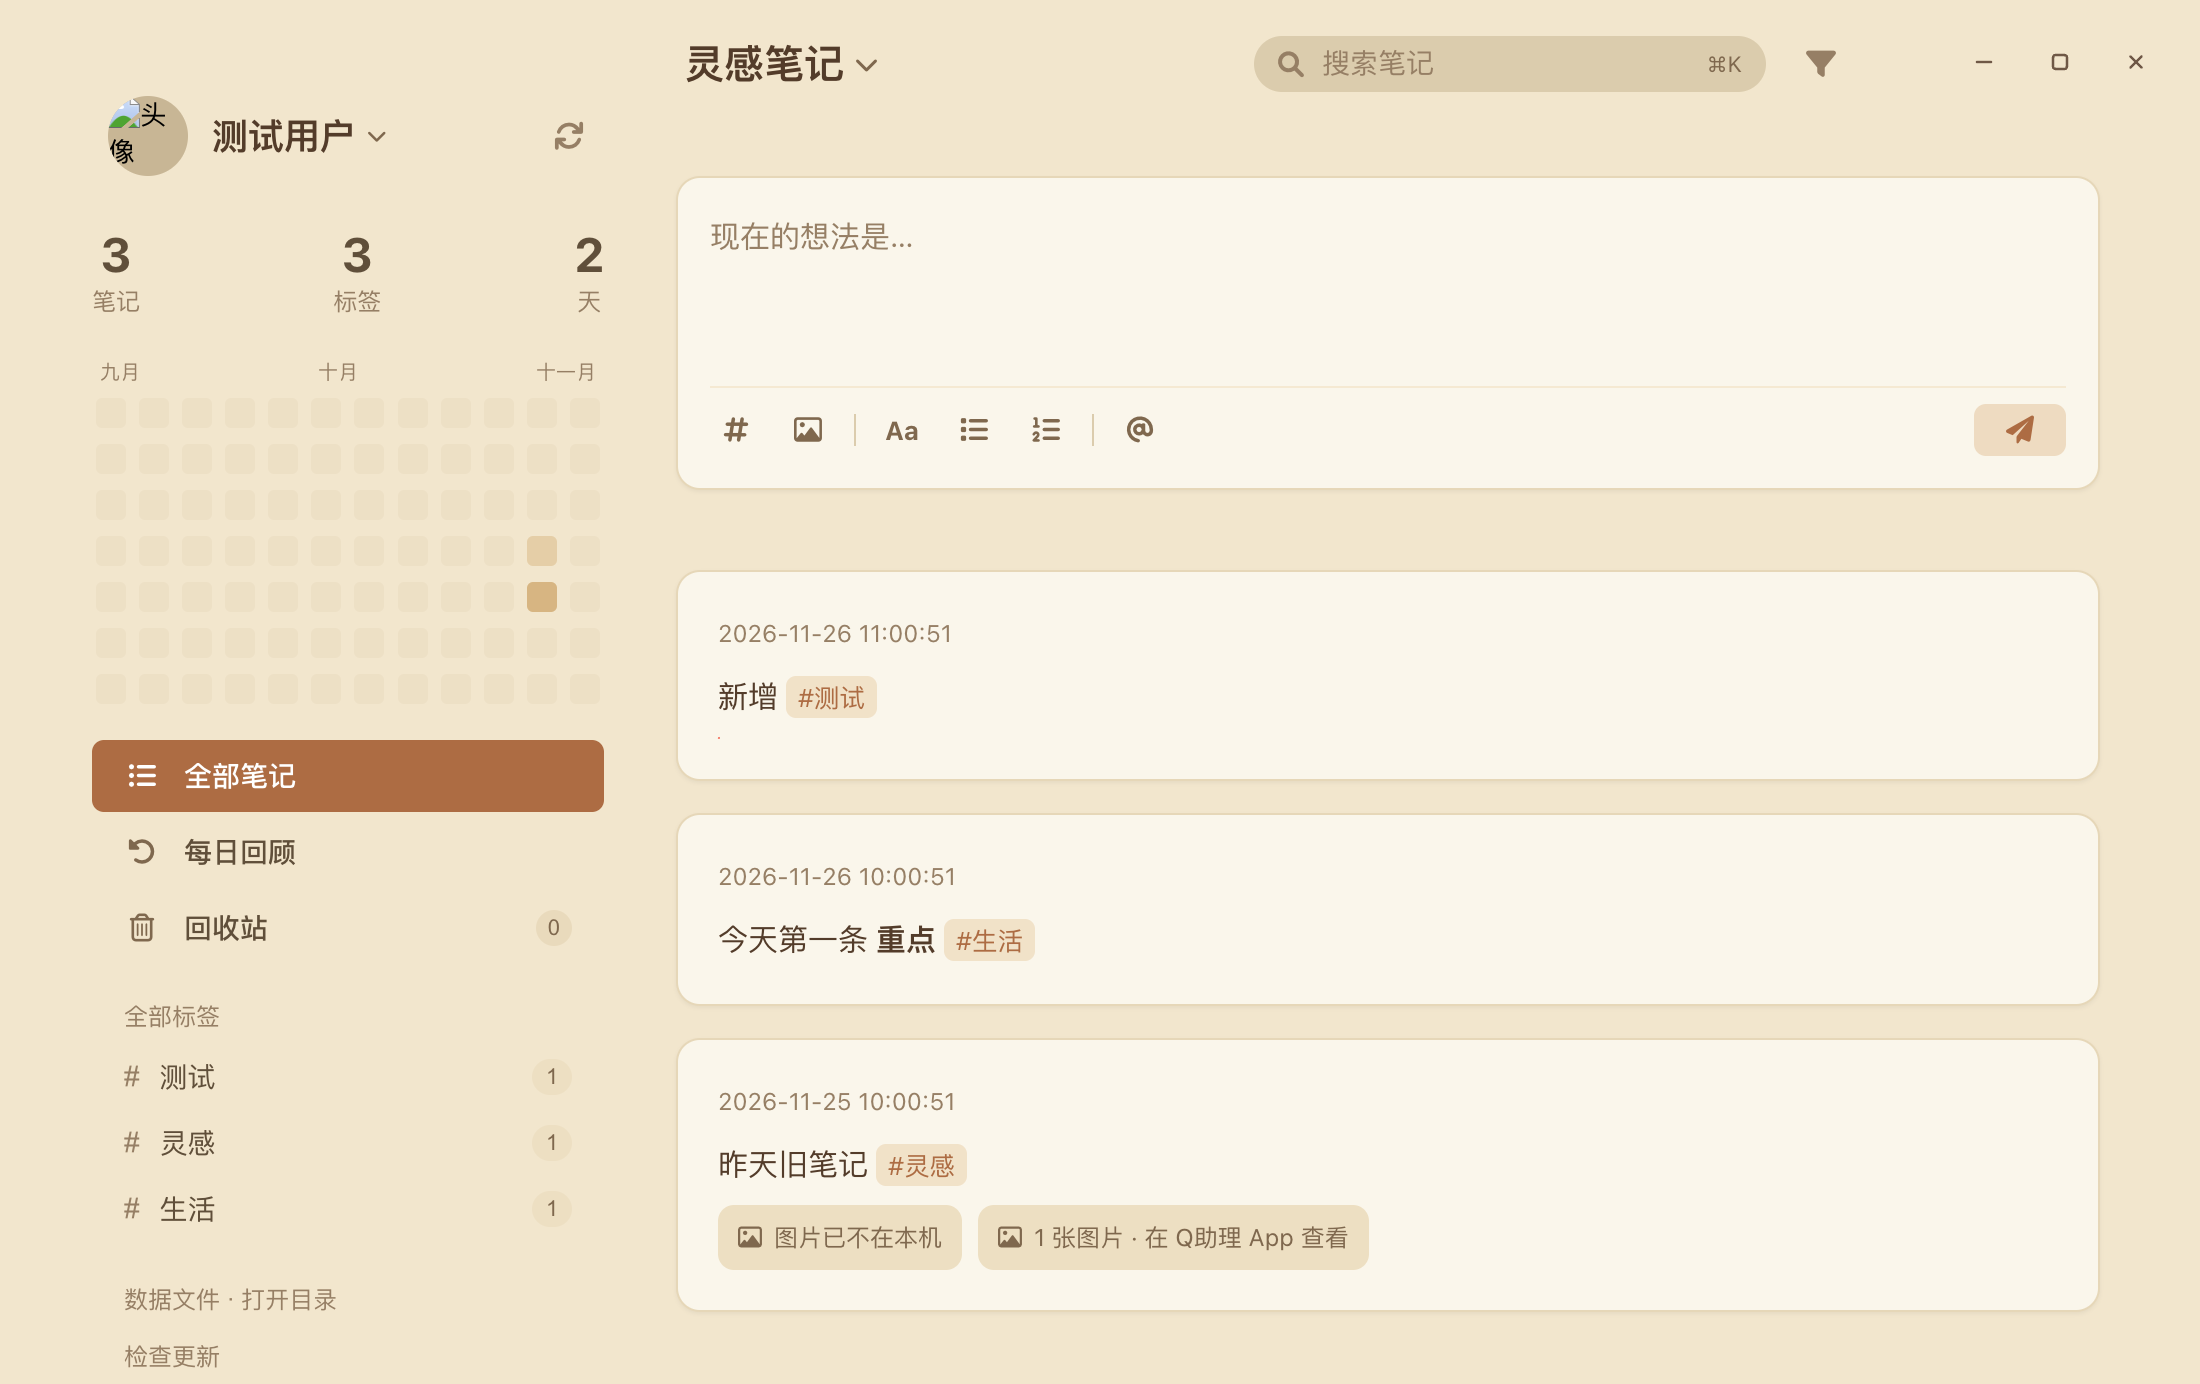
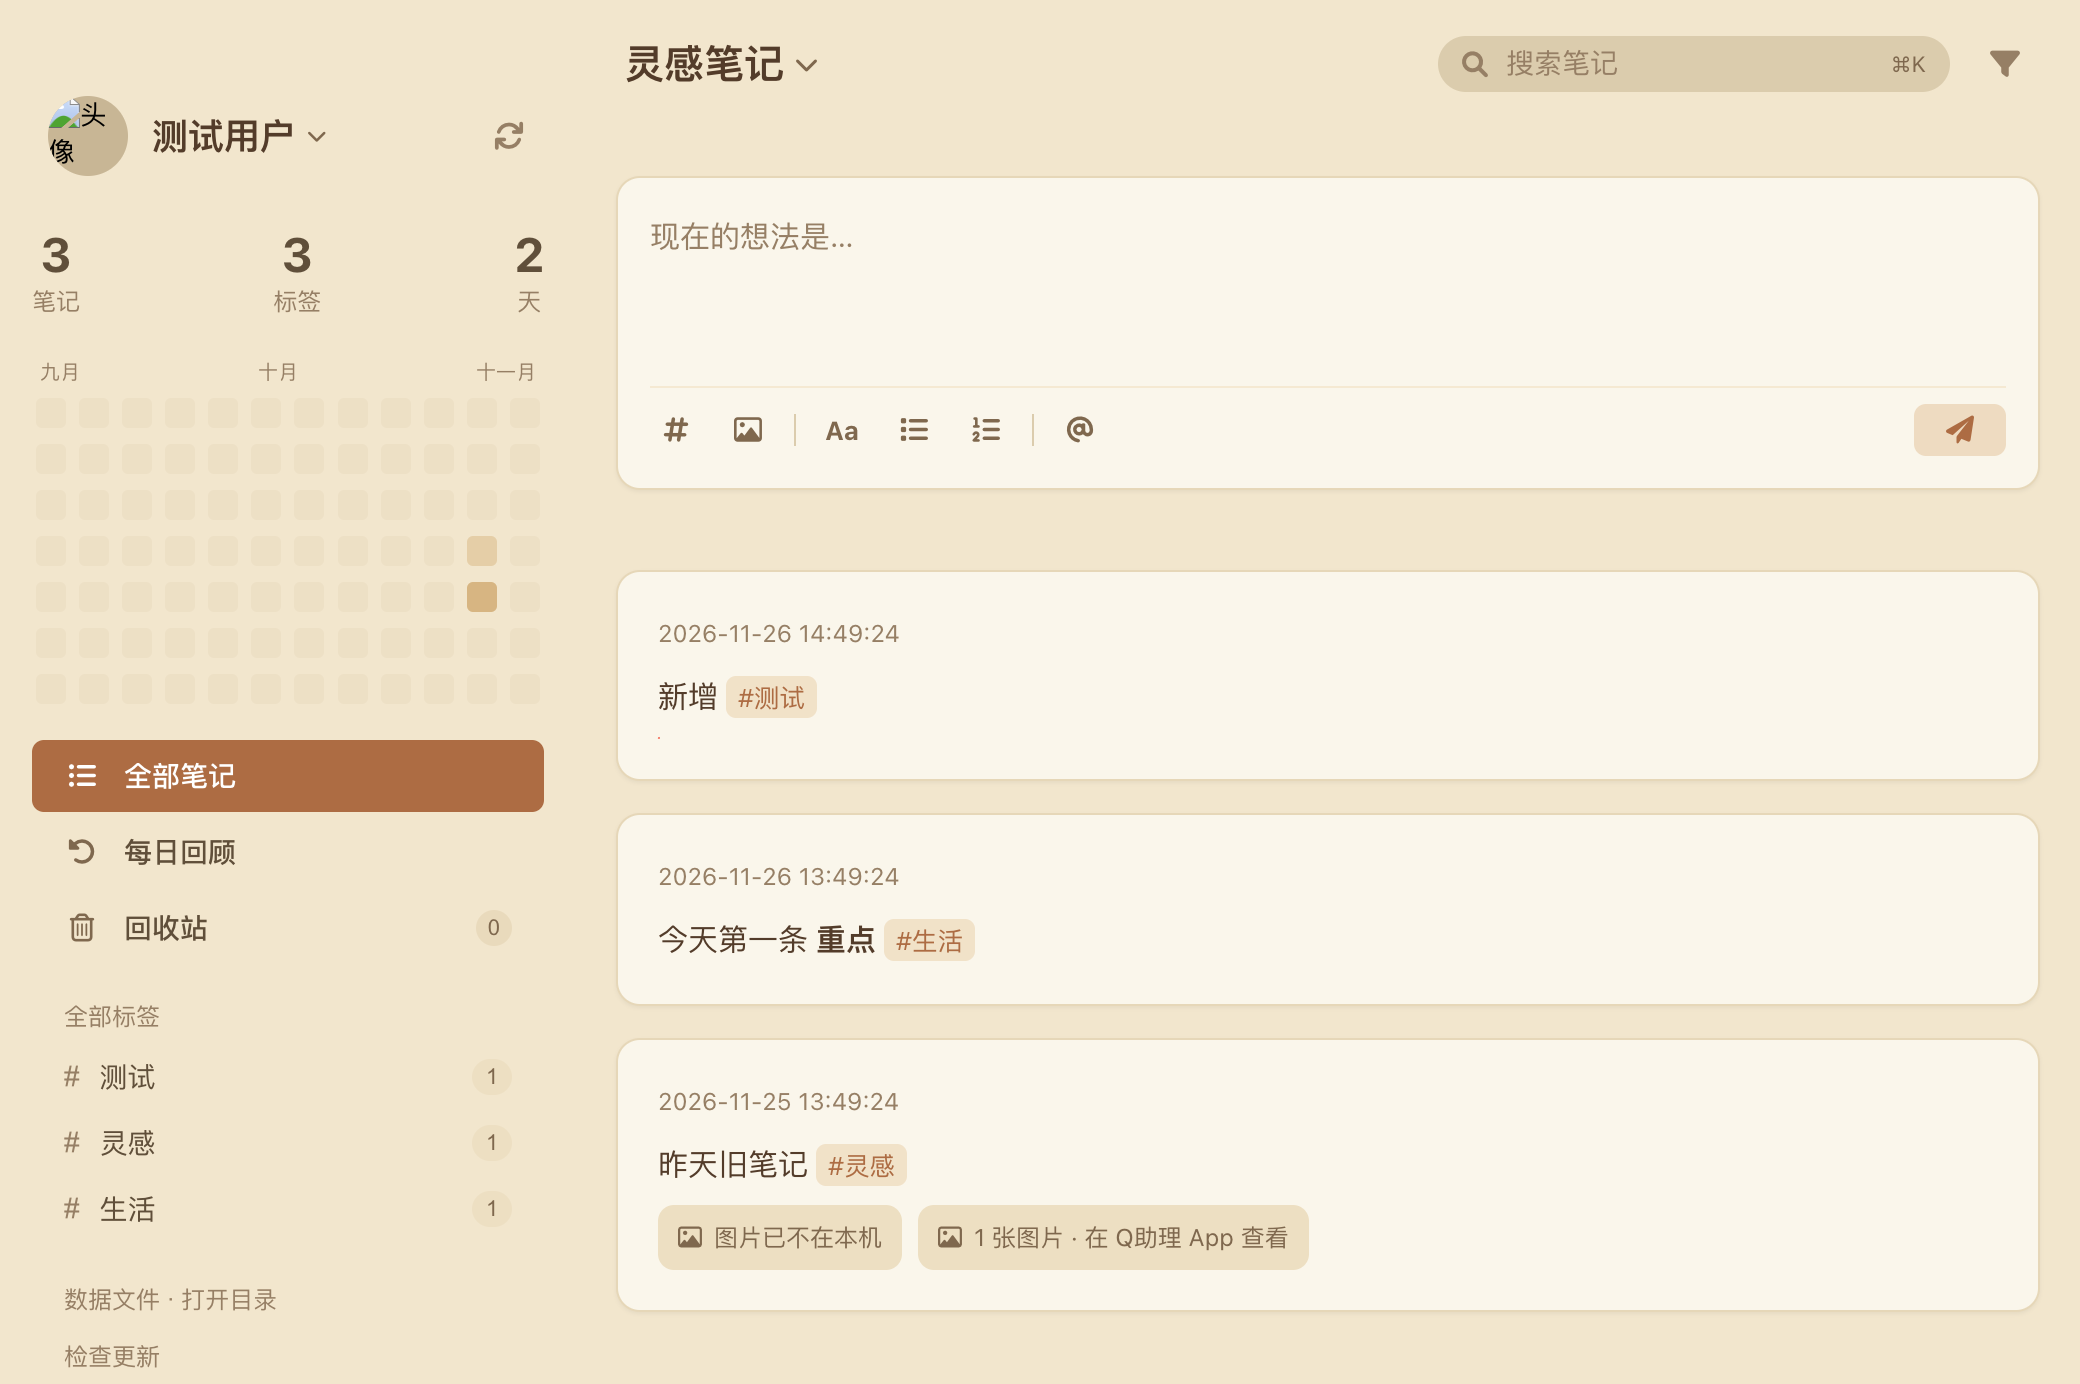
fix(edit): 编辑卡片工具栏 @ 接入联系人联想，不再只弹占位提示
- 编辑态此前只挂了标签联想，工具栏 @ 按钮是 showToast('提及 · 敬请期待')
  → 编辑已有笔记时完全无法 @ 人（顶部输入框可用，容易被误判成打包版问题）
- 工具栏 @ 改为 insertText(' @')，与顶部输入框一致，插入即弹下拉
- 编辑态 attach AtSuggester，保存/取消时 detach
- @ 通知逻辑抽成 notifyMentions() 新建/编辑共用；编辑仅在新增 @ 联系人时通知
- smoke 补断言：editAtBtnFound/editAtInserted/editAtShown/editAtItems

diff --git a/renderer/app.js b/renderer/app.js
@@ -859,9 +859,17 @@
       });
       composer.setValue(memo.content);
       // 标签联想：与顶部输入框同一套交互
-      const detachSuggester = window.TagSuggester.attach(composer, {
+      const detachTagSuggester = window.TagSuggester.attach(composer, {
         getTags: () => window.Tags.countByMemos(state.memos).map((t) => t.name)
       });
+      // @联系人联想：编辑卡片与顶部输入框行为一致（此前只挂了标签联想，编辑态无法 @ 人）
+      const detachAtSuggester = window.AtSuggester.attach(composer, {
+        loadContacts: () => window.ideaNote.mentions.contacts().then((r) => (r && r.ok ? r.contacts : []))
+      });
+      function detachSuggesters() {
+        detachTagSuggester();
+        detachAtSuggester();
+      }
 
       async function saveEdit(val) {
         // 允许纯图片笔记：没文字但有图也能保存
@@ -872,15 +880,18 @@
         }
         try {
           const updated = await window.ideaNote.sync.update(memo.id, val || '', uploadedImageIds(editImages));
-          detachSuggester();
+          detachSuggesters();
           state.editingId = null;
           upsertLocal(updated);
+          // @ 提及通知：只在本次编辑新增了 @联系人时发（原稿已有的 @ 不重复打扰）
+          const added = atNamesIn(val).filter((n) => atNamesIn(memo.content).indexOf(n) === -1);
+          if (added.length) await notifyMentions(val, memo.id);
         } catch (err) {
           handleSyncError(err, '保存失败');
         }
       }
       function cancelEdit() {
-        detachSuggester();
+        detachSuggesters();
         state.editingId = null;
         renderList();
       }
@@ -891,7 +902,7 @@
       tb.querySelector('[data-edit-tool="font"]').addEventListener('click', () => showToast('支持 Markdown 语法：**加粗**、*斜体*、`代码`'));
       tb.querySelector('[data-edit-tool="ul"]').addEventListener('click', () => composer.insertText('- '));
       tb.querySelector('[data-edit-tool="ol"]').addEventListener('click', () => composer.insertText('1. '));
-      tb.querySelector('[data-edit-tool="at"]').addEventListener('click', () => showToast('提及 · 敬请期待'));
+      tb.querySelector('[data-edit-tool="at"]').addEventListener('click', () => composer.insertText(' @'));
       tb.querySelector('[data-edit-tool="save"]').addEventListener('click', () => saveEdit(composer.value()));
       tb.querySelector('[data-edit-tool="cancel"]').addEventListener('click', cancelEdit);
       // Esc 取消（composer 只处理 Enter，这里兜底）
@@ -1896,6 +1907,45 @@
     }).observe(composerZone);
   }
 
+  /**
+   * 正文里的 @昵称（与 qz/cli.js extractMentions 同一套规则：@ 前必须独立成词，避免邮箱误判）。
+   * 仅用于渲染层判断「有没有 @ 人」/「编辑时是否新增了 @ 人」。
+   */
+  function atNamesIn(text) {
+    const s = String(text == null ? '' : text);
+    const out = [];
+    const re = /@([\u4e00-\u9fa5A-Za-z0-9_-]+)/g;
+    let m;
+    while ((m = re.exec(s))) {
+      const prev = m.index > 0 ? s.charAt(m.index - 1) : '';
+      if (prev && /[\u4e00-\u9fa5A-Za-z0-9_-]/.test(prev)) continue;
+      out.push(m[1]);
+    }
+    return out;
+  }
+
+  /**
+   * @ 提及通知（新建与编辑共用）：想法已落库后调用，通知失败/不可用不阻塞。
+   * @param {string} text 想法全文
+   * @param {string} ideaId 笔记 id（分享页联动删除用）
+   */
+  async function notifyMentions(text, ideaId) {
+    try {
+      const notify = await window.ideaNote.mentions.notify(text, ideaId);
+      if (notify && notify.ok && Array.isArray(notify.sent) && notify.sent.length) {
+        const sent = notify.sent.filter((s) => s.ok);
+        const failed = notify.sent.filter((s) => !s.ok);
+        if (sent.length && !failed.length) showToast('已通知 ' + sent.length + ' 位联系人');
+        else if (sent.length && failed.length) showToast('已通知 ' + sent.length + ' 位，' + failed.map((f) => f.name + (f.error ? '(' + f.error + ')' : '')).join('、') + ' 未送达', 4000);
+        else showToast('@通知未送达：' + failed.map((f) => f.name + (f.error ? '(' + f.error + ')' : '')).join('、'), 4000);
+      } else if (notify && notify.error) {
+        showToast('已保存，但 @通知不可用：' + notify.error, 4000);
+      }
+    } catch (e) {
+      console.warn('[mentions] 通知失败: ' + ((e && e.message) || e));
+    }
+  }
+
   async function saveMemo() {
     if (state.view === 'trash') return; // 回收站视图下输入区已隐藏，防御
     const val = state.composer.value();
@@ -1922,22 +1972,7 @@
         updateFeedScrollbar();
       }
       // @ 提及通知：想法已发布，通知失败/不可用不阻塞（qz CLI 仅本机可用）
-      if (/@[^\s@#]/.test(val)) {
-        try {
-          const notify = await window.ideaNote.mentions.notify(val, memo.id);
-          if (notify && notify.ok && Array.isArray(notify.sent) && notify.sent.length) {
-            const sent = notify.sent.filter((s) => s.ok);
-            const failed = notify.sent.filter((s) => !s.ok);
-            if (sent.length && !failed.length) showToast('已通知 ' + sent.length + ' 位联系人');
-            else if (sent.length && failed.length) showToast('已通知 ' + sent.length + ' 位，' + failed.map((f) => f.name + (f.error ? '(' + f.error + ')' : '')).join('、') + ' 未送达', 4000);
-            else showToast('@通知未送达：' + failed.map((f) => f.name + (f.error ? '(' + f.error + ')' : '')).join('、'), 4000);
-          } else if (notify && notify.error) {
-            showToast('想法已发布，但 @通知不可用：' + notify.error, 4000);
-          }
-        } catch (e) {
-          console.warn('[mentions] 通知失败: ' + ((e && e.message) || e));
-        }
-      }
+      if (atNamesIn(val).length) await notifyMentions(val, memo.id);
       state.composer.focus();
     } catch (err) {
       handleSyncError(err, '保存失败');

diff --git a/smoke-test.js b/smoke-test.js
@@ -493,6 +493,19 @@ app.whenReady().then(async () => {
               out.suggestClosedAfterMove = !!(box && box.classList.contains('hidden'));
             }
             const card = editEl.closest('.memo-edit-card');
+            // 编辑卡片工具栏 @ 按钮：与顶部输入框一致——插入 ' @' 并弹出联系人联想
+            // （旧版是占位 toast「提及 · 敬请期待」，编辑态根本没法 @ 人）
+            const atBtn = card ? card.querySelector('[data-edit-tool="at"]') : null;
+            out.editAtBtnFound = !!atBtn;
+            if (atBtn) {
+              editEl.focus();
+              atBtn.click();
+              await wait(400); // 插入后 input 事件 → loadContacts IPC → 浮层渲染
+              out.editAtInserted = (editEl.textContent || '').indexOf('@') !== -1;
+              const atBox = document.querySelector('.tag-suggest.at-suggest');
+              out.editAtShown = !!(atBox && !atBox.classList.contains('hidden'));
+              out.editAtItems = atBox ? atBox.querySelectorAll('.tag-suggest-item').length : 0;
+            }
             const cancelBtn = card ? card.querySelector('[data-edit-tool="cancel"]') : null;
             if (cancelBtn) cancelBtn.click();
             await wait(150);
@@ -669,6 +682,11 @@ app.whenReady().then(async () => {
       editResult.suggestShownOnEnter === true &&
       editResult.suggestClosedAfterMove === true &&
       editResult.editCanceled === true &&
+      // 编辑卡片工具栏 @：插入 ' @' 且弹出联系人联想（此前是占位 toast）
+      editResult.editAtBtnFound === true &&
+      editResult.editAtInserted === true &&
+      editResult.editAtShown === true &&
+      editResult.editAtItems > 0 &&
       !editResult.tagSuggestErr &&
       // @联系人联想 + 提及通知
       atResult.atShown1 === true &&
